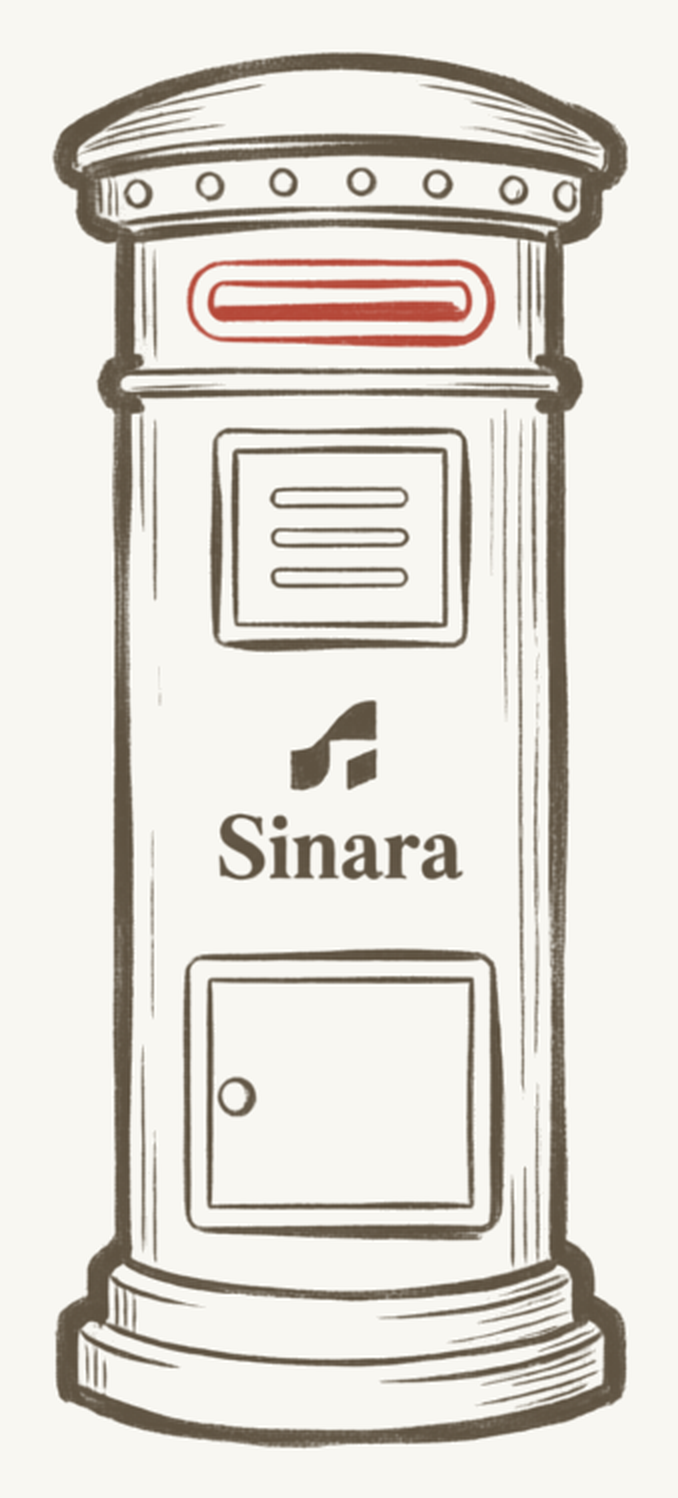
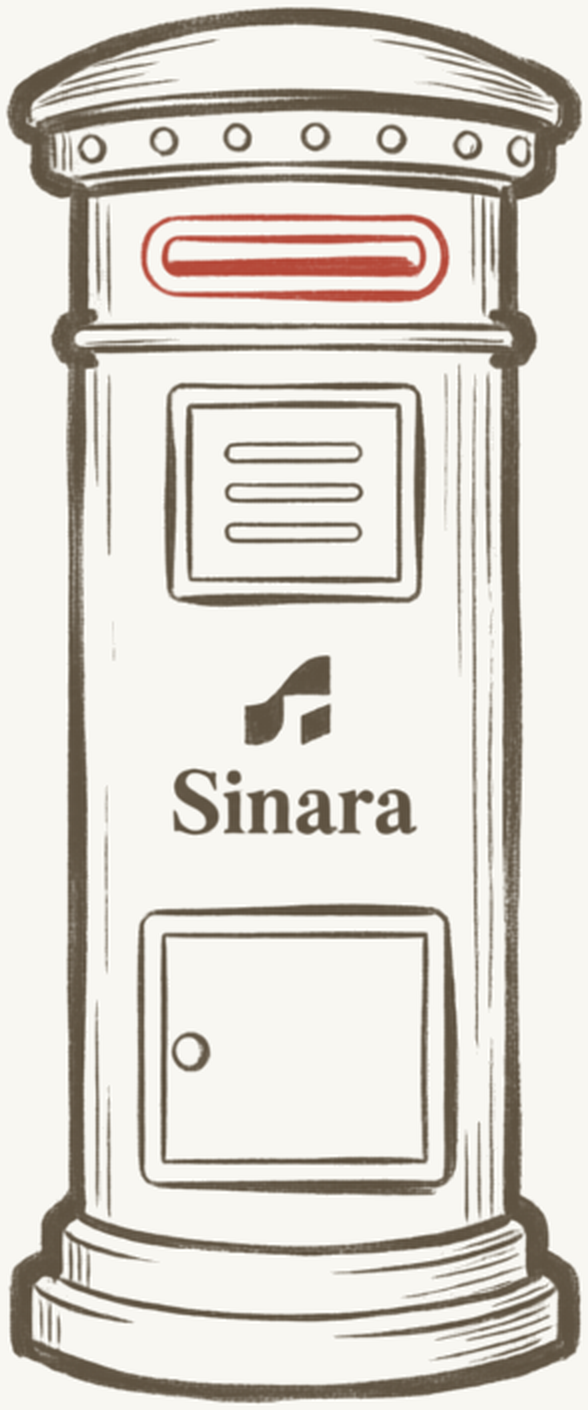
5.2 邮筒页深度适配：尺寸锚 iOS 比例按机型/形态分档（PostBoxMetrics 单一来源），裁邮筒 PNG 奶油边，窗口尺寸发布，状态行 caption 12fp，625 单测全绿+真机像素验收

diff --git a/PROGRESS.md b/PROGRESS.md
@@ -36,7 +36,7 @@
 | 4.3 账户页 | ✅ | Gavin（agent） | 2026-10-24 | **完成（真机验收主体通过；换绑整段跳过、注销提交后置——均用户拍板）**。对应 iOS `SettingsAccountView.swift`/`ChangePhoneView.swift`/`DeleteAccountView.swift`。**词条**：HAND_STRINGS +8 七语言（base 870 条八语言验证过）。**models/Api.ets 扩展**：ChangePhoneResponse/DeleteAccountResponse（只建模 ok，appleRevoked 不拒收不建模）/parseOkResponse + raw/parser。**AuthService 四方法**（15s 超时+bearer）：bindPhone/changePhone/updateDisplayName/deleteAccount。**LoginView bindPhone 模式**：onReady param==='bindPhone' 分派 submitCode→bindPhone（switchedAccount→establish 新 token+s_221b549139；else→updateUser+s_cecceb5a0a；token 守卫 s_0e37efff8d；envelope 透传 s_b94e9a68cd）。**SettingsTabView**：已登录卡（34 图标+昵称优先+脱敏手机号副行）/🔴未绑红色警告留一级卡（R-ACCOUNT-03，U02 华为版文案）/未登录「登录 / 注册」入口卡；**定格居中小标题「设置」**（不随滚动，内容从下穿过）。**SettingsAccountView 新建**（路由 `Account`）：昵称行（内联弹窗 PATCH /me ≤64 空清空，成功就地 UserDTO 拷贝不跑 GET /me）+手机号行（已绑→ChangePhone/未绑→Login bindPhone+红 footer）+退出登录（官方 AlertDialog 确认→clear）+注销账号红色最底+footer；tick watch 登录态空自动 pop。**ChangePhoneView 新建**（路由 `ChangePhone`）：两步流旧码本地暂存不提前消费→新号+新码一次 changePhone；快照防塌。**DeleteAccountView 新建**（路由 `DeleteAccount`）：三步——说明（**官方 List/ListItem 分组卡+官方 divider**，正文 labelFont 一档小；「不会被删除」八语言补「和你的华为云空间」铺云同步文案）→验证（inlineError 写页 R-ACCOUNT-07，按钮两态）→**官方 AlertDialog 二次确认**→deleteAccount→clear+tick+navPathStack.clear() 回根（无 popToRoot，实测编译报错）。**UI 官方组件化改造（用户逐轮指令，2026-10-24）**：① 设置定格标题；② 退出/注销确认弹窗换官方 `UIContext.showAlertDialog`——**按钮纯官方默认样式**（不手涂 fontColor/backgroundColor，系统随明暗自适应；DialogButtonStyle 无红色危险档不硬造）；③ 注销按钮两态逐主题（可用=destructive 底白字/禁用=surface 底 textTertiary 字，弃透明度降级）；④ 三页 topBar 返回键边距 6→16。**🔴 本卡最深坑：Scroll 设高度限制（layoutWeight）后内容小于视口默认垂直居中**（官方 FAQ faqs-arkui-725「如何解决Scroll组件设置高度限制后无法顶部对齐」）——设置/账户页「内容在屏幕中间」三轮排查（Stack+margin 居中误诊两轮），最终 `hdc snapshot_display + uitest dumpLayout` 实测坐标（昵称行 262vp vs 预期 101vp）+官方文档实锤，四页 Scroll 统一加 `.align(Alignment.Top)` 修复；BookDetail 从无症状因 `alignContent: Alignment.Bottom` 天然规避。**新规则 R-THEME-10**：官方/系统组件用纯官方样式（系统自适应即逐主题可读），页内自绘按钮才逐主题配色。**单测** +6 → **590 全绿**（parseChangePhone/parseDeleteAccount/parseOkResponse 坏体拒收、changePhoneRefreshesSnapshotKeepsToken、bindPhoneSwitchedAccountMustEstablishNewToken、deleteAccountClearsSessionButNotOtherStores）。**真机验收（Mate X6）**：真短信登录 ✓（296862）、账户卡已登录态+进账户页 ✓、昵称三连（设置/清空/复原+账户卡同步）✓、退出登录（取消+确认+账户卡回登录/注册+日记基线还在）✓、再登录 ✓、注销说明页（官方 List 分组+标题下移+官方红胶囊 ButtonRole.ERROR 继续）+验证页+发码 ✓、四页内容贴顶 ✓。**后置**：注销提交未验（60s 验证码窗口紧，方案待议）、换绑跳过（无第二收码号）、同号重注册（注销后才有意义）、401 真机路径未测；华为绑定行/华为按钮留 4.4（Q1 后端 /auth/huawei 未实现） |
 | 4.4 华为账号 | 🟡 | Gavin（agent） | 2026-10-25 | **U02 三卡代码全部完成（登录按钮/绑定行/注销验证）；单测 593 全绿 + build 零 ERROR + 装机 A 端冒烟 PASS；端到端联调等后端 AGC 密钥（现恒 503 huawei_disabled，属预期分支）**。**纯逻辑** `services/auth/HuaweiAuthLogic.ets`：HuaweiIdProof{idToken, authorizationCode}；取消 1001502012/未登录 1001502001 静默码表 isSilentKitError；proofFor（登录口径：idToken 必须、code 可缺归一 ''）/deleteProofFor（注销口径：两个都必须）；**kit 壳** `services/auth/HuaweiIdAuth.ets`：HuaweiIdAuthError{code} + authorize(context)=createLoginWithHuaweiIDRequest(forceLogin=true)→AuthenticationController.executeRequest→LoginWithHuaweiIDResponse 取 credential（AuthenticationController 构造传 common.Context，视图用 getUIContext().getHostContext() 判空）。**module.json5**：metadata client_id=6917619854007528919（=AGC APP ID=OAuth 2.0客户端ID；**2026-10-24 修正**——原 2067731667488866304 是 agconnect 旧版 client.client_id，属 1001500001 隐患；**公钥指纹核实免配**：官方《配置签名和指纹》compatibleSdkVersion≥20 调试阶段豁免，本项目 26 满足，用户 AGC 里的 0A:4E:B0:D8… 系旧自动签名证书残留无需处理）。**AuthService 三方法**（15s 超时）：loginWithHuawei→POST /auth/huawei、bindHuawei(idToken,token)→POST /me/bindings/huawei（响应只有 {ok:true} 不带 user——绑定后 fetchMe 刷快照，刷新失败仅 hilog.warn 不打扰）、deleteAccountWithHuawei(双凭证,token)→POST /me/delete。**U02-1 登录按钮**（LoginView）：aboutToAppear 注册 onClickLoginWithHuaweiIDButton；onHuaweiCredential 三分支（静默/无凭证/授权失败）+ 503 huawei_disabled 专判→s_c3758b0795「暂未开放用手机号登录」（envelope.code 精确匹配）；官方 LoginWithHuaweiIDButton（Style.BUTTON_RED/borderRadius 24/LoginType.ID/supportDarkMode，height 48 全宽）只在 mode===0 && step===0 显示；**不做「一键登录」**（U02 明确），已绑华为→授权后免验证码直登已覆盖。**U02-2 绑定行**（SettingsAccountView）：行序 昵称→手机号→华为；未绑=「绑定华为账号」+chevron+小字（点击走 HuaweiIdAuth.authorize 请求式 API，forceLogin 同授权界面）；已绑=「已绑定」不可点（v1 不解绑）；成功 toast+tick；presentHuaweiError 分流（HuaweiIdAuthError 静默/授权失败，HttpError 走 presentAuthError 409 透传）；refreshFromSession 补 huaweiBound（bindings 含 'huawei'）。**U02-3 注销验证**（DeleteAccountView）：hasPhone/hasHuawei 双 @State，onReady 两都没绑才 pop；verifySection 重构=phoneVerifyPart + 「或者用华为账号验证」（有手机）/「用你绑定的华为账号验证」（纯华为主标题）+ 官方按钮；onHuaweiCredential（deleteProofFor 双全）→AlertDialog 确认（取消丢授权码）→deleteAccountWithHuawei→clear+tick+toast+navPathStack.clear()；finally 恒置 huaweiProof=null（授权码不缓存）。**文案**：HAND_STRINGS +9 七语言（s_c57df07ccd 华为账号/s_86abec87ab 绑定华为账号/s_614f6c3b3d 绑定小字/s_a23663f119 授权失败/s_2b42a64cab 未获取到凭证/s_c3758b0795 暂未开放/s_573a605055 或者用华为验证/s_76923ad872 用绑定华为验证/s_35744f9bac 绑定成功 toast），外语统一 HUAWEI ID；**修复 s_10a55ee848 真源滞后**（HAND_STRINGS 是 string.json 强制真源，重跑 convert 会把 4.3 的华为云空间版文案冲掉——已同步现值防回归）。**测试**：+3 例（huaweiSilentKitErrorCodeClassification/proofForLoginRequiresIdTokenOnly/deleteProofRequiresIdTokenAndAuthorizationCode）→ **593 全绿**（hvigor test 真执行）；arkts_check 7 文件过；build 零 ERROR（修一处：presentResourceToast 只收 2 参，多余的 4000ms 删除）；check_localization 过绿。**装机**：Mate X6 安装启动冒烟 PASS。**09 文档**：Q1/Q17 结论更新（后端已部署三端点、客户端已接、差 AGC 密钥+SHA256 指纹）。**遗留**：端到端真机联调（后端 AGC 密钥 + AGC SHA256 指纹 12 #1 配齐后：点按钮走授权→现预期 503 文案；配齐后全链路）；「一键登录」（LoginType.QUICK_LOGIN one-tap）口子待研究（用户追加，现有 LoginType.ID 已免验证码登录）；git 提交待用户指示。**2026-10-25 真机联调日（AGC 密钥已配齐）**：① U02-1 登录闭环全通——Mate X6 点官方按钮→静默再授权→/auth/huawei 返 AuthResponse，后端解析 idToken 出昵称「你好」，Q1 结案；② **华为行翻转之谜破案修复**：冷启后设置页华为行恒回「绑定」——根因 `UserSession.establish` 用 `JSON.stringify(UserDTO)` 落盘（bindings 变 `["huawei"]` 字符串数组），恢复 `userFromRaw` 只认线格式 `[{provider}]` 恒解析为空；修复 `UserRaw.bindings?: (BindingRaw | string)[]` 读侧容错（写侧不动，自愈已落盘数据），+1 回归单测 sessionRestoreKeepsBindingsAcrossRestart → **594 全绿**，真机冷启自愈验证 ✓；③ **authorize instanceof 恒 false 修复**：`response instanceof authentication.LoginWithHuaweiIDResponse` 对 native 构造响应恒 false（hilog 实锤 `huawei authorize failed: 0 no huawei id credential`），按官方范例改 `executeRequest(...) as LoginWithHuaweiIDResponse` + dataPresent 诊断日志；④ U02-3 注销 E2E 客户端链路全通（说明→华为静默验证→AlertDialog→提交），但服务端 /me/delete 华为分支 **500 复现 2/2**（Q17 🔴，需尺素查 FC 日志；客户端已加 kind/status/body 诊断日志）；⑤ 顺带复测 4.3 补绑手机号：发码 ✓、6 位自动提交 ✓，但 /me/bindings/phone **500**（Q38 🔴——新码过校验被消费后绑定步崩，客户端请求体核对无误，已加对称诊断日志）；⑥ QUICK_LOGIN 调研完成（Q37 ⚪：v1 不做 v1.1 候选）。**新遗留**：U02-2 绑定行 E2E 需第二手机号 SMS 建未绑号；Q17/Q38 服务端修复后收尾注销+补绑 E2E；git 提交推送（用户已指示）。**2026-10-27 收尾全通（后端 Higgs 修复 Q17/Q38 已部署，4.4 🟢 结卡）**：① U02-1 登录 E2E 复验 ✓——华为账号静默授权→登录成功，账户页昵称「你好」+华为已绑+手机号未绑（红警告 R-ACCOUNT-03）；② **Q38 ✓**——绑定手机号 173\*\*\*\*8851：真实阿里云短信到码 221716 → POST /me/bindings/phone 成功，返回 switchedAccount 合并到既有手机号账户（昵称转「爱砍甘蔗的盖文」，华为行仍已绑），账户页手机号行翻已绑、警告消失；③ **Q17 ✓**——注销三步流：说明→华为验证（静默授权取双凭证）→AlertDialog 确认→POST /me/delete 华为分支成功→账号删除回未登录设置页（登录/注册卡），本地数据无恙；④ 顺手验证改昵称弹窗可开（PATCH /me 4.3 已验不重测）。**4.4 三卡（登录/绑定/注销）全闭环** |
 | 5.1 信箱读信 | ✅ | Gavin（agent） | 2026-10-27 | **完成（597 单测全绿 + build 零 ERROR + 真机验收全过，Mate X6）**。对应 iOS `LetterboxView.swift`/`LetterDetailView.swift`/`LetterDelivery.swift`。**① 数据层** `data/LetterRepository.ets`：`listLetters`（generated_at 倒序全量；「已到达/在路上」过滤与到达时刻排序由调用方用 LetterDelivery 内存做——两端判定逐字一致，05 §6.1）/`findLetter`/`saveLetter`（upsert：update 命中即返否则 insert；调试插信与标已读共用）/`deleteAllLetters`（仅调试页清场，产品无删信入口 R-BOX-09）/导出 `letterToValues` 纯函数（可空列 undefined→null）。**② 信箱** `views/postbox/LetterboxView.ets`（路由 `Letterbox`）：只显示已到信（R-BOX-01）；`nowMs` 每 5 秒推进（R-BOX-02 页面开着到点的信自己冒出来）；行=首字圆徽（火漆信 5.7 换 SealedEnvelope 先占位）+「来自%s」+到达日+预览+未读点（Circle opacity 占位不跳动，iOS 同款）；火漆未拆不露预览只显「火漆封着，还没拆」（R-BOX-03）；空态「信箱还是空的」；底部「有回信正在路上」（仅在有在途信且非空态时）；`onShown` 全量重查（读信返回即刷新）。**③ 读信** `views/postbox/LetterDetailView.ets`（路由 `LetterDetail`，param=信 id）：抬头「致%s」/「致」（R-BOX-07，无昵称快照退光秃秃「致」）；打开普通信即标已读落库（R-BOX-04；已读只记本地不调服务端 R-BOX-10）；火漆信展示正文但不标已读（拆信才算，5.7 接）；信末会员小字行占位（R-BOX-08「想让笔友每篇都回？了解尺素会员」，入口 6.x 接）。**④ 邮筒壳** `views/postbox/PostBoxTabView.ets`：tab2 占位壳（tab 内 Navigation + 右上角「信箱」入口；5.2 建真邮筒页时保留 Navigation 与入口）。**⑤ 调试** `pages/LetterDebug.ets`：五规格插信（已到未读 5min 前/即将到达 40s/在路上 3h/已读昨天/火漆未拆 10min 前）+ ClearAllLetters；HomeView 调试区加按钮（**拆独立一行**——与 Theme/Lang/Location 同行会溢出屏幕，Row 不换行）。**测试**：`LetterRepository.test.ets` letterToValues 纯映射 3 例 → **597 全绿**。**真机验收（Mate X6，插五封实测）**：已到 3 行 +「有回信正在路上」✓；40s 信页面开着自动出现（R-BOX-02）✓；红点像素级验证（snapshot_display 采样圆心：未读=accent 亮/已读=透明灭）✓；打开未读信返回红点实时熄灭（R-BOX-04）✓；「致你好」抬头+正文+会员行 ✓；重启后已读态保持（落库验证）✓；火漆行不露预览 ✓。**修编译/运行五记**：① `Rectangle` 是 SwiftUI 组件（鸿蒙 `Divider().strokeWidth().color()`）；② `lineSpacing(number)` 要 `LengthMetrics.vp()`（三犯）；③ `fontSize` 不能挂 Row（逐 Text 设）；④ **ForEach key 只用 letter.id → onShown 重查后行不重渲染、红点停旧态**（Row 内容全绑 letter 参数对象，同 key 复用旧组件）——key 改 `` `${id}:${status}` ``；⑤ 调试按钮一行塞五枚溢出屏幕（Theme/Lang/Location 可见、后两枚 x>1080 不可见）拆两行。**返工（2026-10-27 用户反馈，两处）**：**A. 未读点改 destructive**（`.fill(accent)`→`.fill(destructive)` 0xFFE8453A 三主题同值——accent 在 Kent 是墨色会看成黑点；iOS letterboxButton 红点同为 destructive），火漆未读行像素实测红 ≈(197-224,67-104,40-103)✓、已读行 opacity 0 占位不跳动。**B. 信箱入口重做：官方 Navigation 标题栏右上角、左上不出「邮筒」二字**（iOS 该页无标题文字，PostBoxView.swift:74-84 inline 无 title；入口等价 toolbar ToolbarItem(.topBarTrailing)）。**menus/title 自定义内容六轮真机排查**（dump 全节点比对）：menus Array 形态 API10+ 不显示菜单文本（官方文档明文）✗；menus CustomBuilder 箭头式/调用式均无节点 ✗；`.title(this.builder())` 调用式 TitleBar 空子节点 ✗；NavigationCustomTitle 字段捕获箭头闭包空壳 ✗——**根因：@Builder 一旦被箭头闭包/字段捕获就丢掉作用域装置，静默不渲染或崩 observeComponentCreation2**（EntryDetailView:443 注释、faqs-arkui-906 同因）；**正解 = 调用点内联 this 引用 `.title(this.titleBar)`**（ComposeView:435 同款，项目内已验证形态）。真机：信箱 [905,175][1080,293] 右上角 ✓ 点击进信箱 ✓ 系统返回 ✓ 左上无字 ✓；597 全绿 + build 零 ERROR。**遗留偏差（5.2 补）**：入口暂无 tray 图标与按钮级未读红点 overlay（iOS letterboxButton 有；需 PostBoxTabView 接 LetterRepository 查 hasUnread）。**全流程复验（2026-10-27 返工后，Mate X6 真机）12 项全过**：清场→插五规格信全链路——①邮筒页左上无标题/右上信箱入口（[905,175]）②入口点进信箱+系统返回 ③R-BOX-01 只显已到达+在路上仅 footer+空态「信箱还是空的」（清场实测）④R-BOX-02 信箱页保持开着跨过到达时刻：dump1 4行→dump2 5行自己冒出、新行红点亮（页面未关、5s 推进）⑤R-BOX-03 火漆行「火漆封着，还没拆」不露预览 ⑥R-BOX-04 打开即读、返回红点实时熄灭（row1 灭/row2+火漆仍红）⑦R-BOX-07「致你好」抬头 ⑧R-BOX-08 会员行 ⑨R-BOX-09 无删信入口 ⑩R-BOX-10 重启后已读态保持（force-stop 复起 row1 无点、未读仍红）⑪红点全部 destructive 红（像素 (223-235,67-74,47-56)≈0xFFE8453A，已读行 opacity 0 占位不跳动）⑫到达时刻倒序（新到信排顶） |
-| 5.2 邮筒页 | ✅ | Gavin（agent） | 2026-10-27 | **完成（617 单测全绿 + build 零 ERROR + 真机验收全过，Mate X6）**。对应 iOS `PostBoxView.swift`/`PostBoxPage.swift`/`Posting/OutgoingPile.swift`。**① 纯逻辑** `models/PostBoxLogic.ets`：`PostBoxSituationKind` 八档（NotLoggedIn/NothingNew/Ready/JustPosted/InTransit/Blocked/Returned/NoEntries——R-POST-06）+ `judgePostBoxState`（候选=candidateEntries：上次寄出之后新写的日记；在途>0→InTransit；节奏拦→Blocked）+ `OutgoingItem`/`outgoingItemsOf`（行模型：日期+标题，无题→「无题」）+ `hasUnreadLetter`（信箱红点）+ `lastSentAtMs`；单测 `PostBoxLogic.test.ets` 20 例（八档判定/候选口径/行模型/红点/时间边界）。**② 页面取色** `services/MailboxPageColor.ets`：`mailboxPageColor(themeId, mailboxImage)` 插画左上 1 像素取整页底色（getMediaContent(resId)→createImageSource→createPixelMap→readPixels(0,0) 1px BGRA；按 themeId 缓存；`getMediaContent(Resource)` API20 起废弃用 id 重载），三主题实测 bamboo #F8F7F2/leather #1C1411/kent #FFFFFF。**③ 一叠纸** `views/postbox/OutgoingPile.ets`：逐字对齐 iOS 尺寸（header 34/row 40/visibleRows 3.5/总高 OUTGOING_PILE_HEIGHT_VP 188/渐隐 24）；header「这次寄出的日记」+「N / M」右对齐（fontStyle Italic——**`.italic()` 属性不存在**，编译实证）；行=CheckMark（Path 'M0 5.55 L4.68 11 Q7.15 5.5 13 0' stroke liner 1.8）+shortDate+标题；勾/不勾 opacity 1/0.38；Scroll+底部 24vp 渐隐；`interactive` 开关（Blocked 档半透明 0.5 不可点）；纸色/墨色走 `LetterPalette.of(themeId)`（bamboo/leather/kent 三套）。**④ 邮筒页** `views/postbox/PostBoxTabView.ets` 重写：插画（layoutWeight 1）+状态行（minHeight 40）+底部固定 188（Ready 出可交互叠纸；Blocked 且有候选出半透明叠纸）；状态行文案 `statusLabel()`/`rhythmLabel()` 集中映射（JustPosted 带候选与否双文案；Blocked 走 rhythm.reason daily_cap/monthly_cap/welcome_pending；不带计量词 R-POST-12）；标题栏「信箱」入口+未读红点（Circle destructive 8vp，`hasUnreadLetter`）；`STORAGE_KEY_POSTBOX_VISIBLE_TICK` 导出，MainTabsView onChange index===2 打点 @Watch 重查（tab 每次进入刷新）；nowMs 5 秒推进。**⑤ 节奏接口**：`models/Api.ets` `RhythmResponse`+`parseRhythmResponse`（canRequestNow 必填 bool，tier/reason/nextLetterAt 可选，null→''）；`services/auth/AuthService.ets` `fetchRhythm(token)` GET /me/rhythm（TIMEOUT_RHYTHM_S 15s）；`data/LetterRepository.ets` `entryIdsForLetters`（RdbPredicates in）。**测试**：**617 全绿**（597+20，Local Test hvigor 真执行；`entry/.test` 删缓存+clean 后跑出——onDeviceTest 跑的是 ohosTest 不是单测套件，缓存不重编会假报 597）。**真机验收（Mate X6）**：NotLoggedIn「登录之后，青鸟才能给你回信」+下半区空 ✓；华为账号静默登录后 Ready 档（写一篇日记→状态行「点邮筒，把勾上的日记寄给青鸟」+叠纸「这次寄出的日记 1/1」+行勾选）✓；点行取消勾→「0 / 1」+状态行「一篇都没勾，信封里是空的」✓；LetterDebug 插已到未读信→NothingNew 档「上次寄信之后还没写新日记」+信箱右上红点像素采样 #DC3D2A（destructive）✓；ClearAllLetters→红点消失+候选恢复 2/2 两行渲染 ✓；三主题整页底色逐一像素采样（素笺 #F8F7F2/皮革 #1C1411/肯特 #FFFFFF）✓。**Blocked 档（服务端拦）真机不可构造**——测试账号 /me/rhythm 恒 canRequestNow=true，半透明叠纸与 rhythm.reason 文案走单测覆盖，5.3 寄信队列接通后随真实寄信历史复测。**修编译两记**：① `.italic()` 不存在→`.fontStyle(FontStyle.Italic)`；② `getMediaContent(Resource)` API20 废弃→`getMediaContent(resId)` 传 `mailboxImage.id`。**真机操作坑两记**：① 悬浮胶囊 TabBar（HdsTabs barOverlap）触摸热区盖住记录页调试行下半——Seed15/LetterDebug 下半按钮点不到（点击落进胶囊切错 tab），要点按钮**上半**（y-40 左右）；② 重装（hdc install -r）清应用数据→重走首启+重登录。**返工（2026-10-27 用户反馈四问题+整页按 iOS 版式重排，真机全过）**：反馈——①滑动叠纸时邮筒忽大忽小；②胶囊 tab bar 遮「这次寄出的日记」；③勾选样式不对；④信箱按钮换官方组件；另「邮筒太靠上、信纸紧贴 tabbar 上一点、整体参考 iOS」。**真机排雷四记（dump 全量+像素扫描实证，后续卡片通用）**：(a) `.overlay()` 挂带子节点的复杂 @Builder→容器渲染但子闭包全不渲染（入口 Row 塌 8px、Symbol/Text/Circle 全消失；单节点 overlay 才稳）；正解=行内调用 `this.letterboxEntry()`（@Builder 被字段/箭头捕获即丢作用域——同 5.1 menus 六轮排查根因）；(b) `width('100%')` 节点的 `.margin()` 整组被忽略（叠纸 wrapper margin l/r 28 实测纸全宽 0..1078；wrap-content 节点 margin 正常，已验收页作证）→ 横向内缩改 `.padding({left:28,right:28})`；(c) `Image.padding({top})` 不参与 objectFit 绘制（l/r 参与固有宽计算、top 被画布盖过）→ 顶距走外层容器；(d) **NavBar 内容列 padding(top) 从窗口顶 y=0 量起**（真机标定 top:52→y=162 而非 284；px/vp=3.1154 三点验证）。**修复**：整页重排为 `Column({space:14}){Stack(TopEnd){Image(Contain,100%,100%).layoutWeight(1)+行内入口}.width('100%').layoutWeight(1)；状态行；叠纸 wrapper height(188).padding({l:28,r:28})}`，整列 `.padding({top:91.3, bottom: safeAreaBottomVp+90})`（91.3=窗口顶量起：安全区 122px+52vp，iOS 44 导航栏+8 契约；邮筒 dome 顶 319px=绘制顶 285+PNG 奶油带 51×scale ✓）。①四向滑动（叠纸弹滚+tab 切换往返）Image bounds 恒 [0,285][1080,1272] ✓；②纸 [87,1498][993,2061]（28vp 内缩 iOS 同款）底 2073<胶囊顶 2178 ✓，一页 3 行可见 ✓；③勾 Path 改两条 Line（P1(0,5.55)→P2(4.68,11)→P3(13,0) 圆头 1.8 stroke liner——**Path 真机按物理像素渲染勾缩在角上，Line 端点 vp 跨设备一致**），竹主题朱红像素实证 ✓；④入口=官方 SymbolGlyph($r('sys.symbol.inbox'))+Text 信箱+Circle 红点 8vp destructive（**按钮级红点补 5.1 遗留偏差**），红点随插信/清场亮灭（像素 (223,72,61)≈destructive ✓）、点开 Letterbox ✓ 返回 ✓。**mailbox_bamboo.png 无 alpha**（RGB、角=pageColor #F8F7F2——取色原理成立）。真机复验（Mate X6，dump /tmp/fl..fy 存档）：插已到未读信→NothingNew+红点亮（debug 信 generatedAt 在两篇日记后→候选 0，判定口径正确）；ClearAllLetters→恢复 Ready「点邮筒，把勾上的日记寄给青鸟」/「2 / 2」无红点；无纯逻辑改动，**617 全绿复跑**+build 零 ERROR。**hvigorw 不在系统 PATH**（local-test 脚本需先 export /Applications/DevEco-Studio.app/Contents/tools/hvigor/bin 等三个 bin）。 |
+| 5.2 邮筒页 | ✅ | Gavin（agent） | 2026-10-27 | **完成（617 单测全绿 + build 零 ERROR + 真机验收全过，Mate X6）**。对应 iOS `PostBoxView.swift`/`PostBoxPage.swift`/`Posting/OutgoingPile.swift`。**① 纯逻辑** `models/PostBoxLogic.ets`：`PostBoxSituationKind` 八档（NotLoggedIn/NothingNew/Ready/JustPosted/InTransit/Blocked/Returned/NoEntries——R-POST-06）+ `judgePostBoxState`（候选=candidateEntries：上次寄出之后新写的日记；在途>0→InTransit；节奏拦→Blocked）+ `OutgoingItem`/`outgoingItemsOf`（行模型：日期+标题，无题→「无题」）+ `hasUnreadLetter`（信箱红点）+ `lastSentAtMs`；单测 `PostBoxLogic.test.ets` 20 例（八档判定/候选口径/行模型/红点/时间边界）。**② 页面取色** `services/MailboxPageColor.ets`：`mailboxPageColor(themeId, mailboxImage)` 插画左上 1 像素取整页底色（getMediaContent(resId)→createImageSource→createPixelMap→readPixels(0,0) 1px BGRA；按 themeId 缓存；`getMediaContent(Resource)` API20 起废弃用 id 重载），三主题实测 bamboo #F8F7F2/leather #1C1411/kent #FFFFFF。**③ 一叠纸** `views/postbox/OutgoingPile.ets`：逐字对齐 iOS 尺寸（header 34/row 40/visibleRows 3.5/总高 OUTGOING_PILE_HEIGHT_VP 188/渐隐 24）；header「这次寄出的日记」+「N / M」右对齐（fontStyle Italic——**`.italic()` 属性不存在**，编译实证）；行=CheckMark（Path 'M0 5.55 L4.68 11 Q7.15 5.5 13 0' stroke liner 1.8）+shortDate+标题；勾/不勾 opacity 1/0.38；Scroll+底部 24vp 渐隐；`interactive` 开关（Blocked 档半透明 0.5 不可点）；纸色/墨色走 `LetterPalette.of(themeId)`（bamboo/leather/kent 三套）。**④ 邮筒页** `views/postbox/PostBoxTabView.ets` 重写：插画（layoutWeight 1）+状态行（minHeight 40）+底部固定 188（Ready 出可交互叠纸；Blocked 且有候选出半透明叠纸）；状态行文案 `statusLabel()`/`rhythmLabel()` 集中映射（JustPosted 带候选与否双文案；Blocked 走 rhythm.reason daily_cap/monthly_cap/welcome_pending；不带计量词 R-POST-12）；标题栏「信箱」入口+未读红点（Circle destructive 8vp，`hasUnreadLetter`）；`STORAGE_KEY_POSTBOX_VISIBLE_TICK` 导出，MainTabsView onChange index===2 打点 @Watch 重查（tab 每次进入刷新）；nowMs 5 秒推进。**⑤ 节奏接口**：`models/Api.ets` `RhythmResponse`+`parseRhythmResponse`（canRequestNow 必填 bool，tier/reason/nextLetterAt 可选，null→''）；`services/auth/AuthService.ets` `fetchRhythm(token)` GET /me/rhythm（TIMEOUT_RHYTHM_S 15s）；`data/LetterRepository.ets` `entryIdsForLetters`（RdbPredicates in）。**测试**：**617 全绿**（597+20，Local Test hvigor 真执行；`entry/.test` 删缓存+clean 后跑出——onDeviceTest 跑的是 ohosTest 不是单测套件，缓存不重编会假报 597）。**真机验收（Mate X6）**：NotLoggedIn「登录之后，青鸟才能给你回信」+下半区空 ✓；华为账号静默登录后 Ready 档（写一篇日记→状态行「点邮筒，把勾上的日记寄给青鸟」+叠纸「这次寄出的日记 1/1」+行勾选）✓；点行取消勾→「0 / 1」+状态行「一篇都没勾，信封里是空的」✓；LetterDebug 插已到未读信→NothingNew 档「上次寄信之后还没写新日记」+信箱右上红点像素采样 #DC3D2A（destructive）✓；ClearAllLetters→红点消失+候选恢复 2/2 两行渲染 ✓；三主题整页底色逐一像素采样（素笺 #F8F7F2/皮革 #1C1411/肯特 #FFFFFF）✓。**Blocked 档（服务端拦）真机不可构造**——测试账号 /me/rhythm 恒 canRequestNow=true，半透明叠纸与 rhythm.reason 文案走单测覆盖，5.3 寄信队列接通后随真实寄信历史复测。**修编译两记**：① `.italic()` 不存在→`.fontStyle(FontStyle.Italic)`；② `getMediaContent(Resource)` API20 废弃→`getMediaContent(resId)` 传 `mailboxImage.id`。**真机操作坑两记**：① 悬浮胶囊 TabBar（HdsTabs barOverlap）触摸热区盖住记录页调试行下半——Seed15/LetterDebug 下半按钮点不到（点击落进胶囊切错 tab），要点按钮**上半**（y-40 左右）；② 重装（hdc install -r）清应用数据→重走首启+重登录。**返工（2026-10-27 用户反馈四问题+整页按 iOS 版式重排，真机全过）**：反馈——①滑动叠纸时邮筒忽大忽小；②胶囊 tab bar 遮「这次寄出的日记」；③勾选样式不对；④信箱按钮换官方组件；另「邮筒太靠上、信纸紧贴 tabbar 上一点、整体参考 iOS」。**真机排雷四记（dump 全量+像素扫描实证，后续卡片通用）**：(a) `.overlay()` 挂带子节点的复杂 @Builder→容器渲染但子闭包全不渲染（入口 Row 塌 8px、Symbol/Text/Circle 全消失；单节点 overlay 才稳）；正解=行内调用 `this.letterboxEntry()`（@Builder 被字段/箭头捕获即丢作用域——同 5.1 menus 六轮排查根因）；(b) `width('100%')` 节点的 `.margin()` 整组被忽略（叠纸 wrapper margin l/r 28 实测纸全宽 0..1078；wrap-content 节点 margin 正常，已验收页作证）→ 横向内缩改 `.padding({left:28,right:28})`；(c) `Image.padding({top})` 不参与 objectFit 绘制（l/r 参与固有宽计算、top 被画布盖过）→ 顶距走外层容器；(d) **NavBar 内容列 padding(top) 从窗口顶 y=0 量起**（真机标定 top:52→y=162 而非 284；px/vp=3.1154 三点验证）。**修复**：整页重排为 `Column({space:14}){Stack(TopEnd){Image(Contain,100%,100%).layoutWeight(1)+行内入口}.width('100%').layoutWeight(1)；状态行；叠纸 wrapper height(188).padding({l:28,r:28})}`，整列 `.padding({top:91.3, bottom: safeAreaBottomVp+90})`（91.3=窗口顶量起：安全区 122px+52vp，iOS 44 导航栏+8 契约；邮筒 dome 顶 319px=绘制顶 285+PNG 奶油带 51×scale ✓）。①四向滑动（叠纸弹滚+tab 切换往返）Image bounds 恒 [0,285][1080,1272] ✓；②纸 [87,1498][993,2061]（28vp 内缩 iOS 同款）底 2073<胶囊顶 2178 ✓，一页 3 行可见 ✓；③勾 Path 改两条 Line（P1(0,5.55)→P2(4.68,11)→P3(13,0) 圆头 1.8 stroke liner——**Path 真机按物理像素渲染勾缩在角上，Line 端点 vp 跨设备一致**），竹主题朱红像素实证 ✓；④入口=官方 SymbolGlyph($r('sys.symbol.inbox'))+Text 信箱+Circle 红点 8vp destructive（**按钮级红点补 5.1 遗留偏差**），红点随插信/清场亮灭（像素 (223,72,61)≈destructive ✓）、点开 Letterbox ✓ 返回 ✓。**mailbox_bamboo.png 无 alpha**（RGB、角=pageColor #F8F7F2——取色原理成立）。真机复验（Mate X6，dump /tmp/fl..fy 存档）：插已到未读信→NothingNew+红点亮（debug 信 generatedAt 在两篇日记后→候选 0，判定口径正确）；ClearAllLetters→恢复 Ready「点邮筒，把勾上的日记寄给青鸟」/「2 / 2」无红点；无纯逻辑改动，**617 全绿复跑**+build 零 ERROR。**hvigorw 不在系统 PATH**（local-test 脚本需先 export /Applications/DevEco-Studio.app/Contents/tools/hvigor/bin 等三个 bin）。**深度适配返工（2026-10-27 用户四点反馈：叠纸贴 Tab 栏、邮筒下移放大、状态行字大、按机型/形态适配）——完成（625 全绿 + build 零 ERROR + 真机像素验收全过，Mate X6 折叠态）**。**设计**：一切尺寸锚 iOS 比例（ ContentView 标准 TabView 不悬浮→胶囊预留是平台差异；叠纸 188/852=22% 窗高；邮筒墨迹 149×358pt=屏宽 37.9%）而非逐点照抄——新建纯逻辑 `views/postbox/PostBoxMetrics.ets`（单一来源：compute(windowH, safeTop, safeBottom)——pileHeight=clamp(0.22×窗高,132,188)（188 时逐字=iOS 34/40/188/24）、topOffset=safeTop+70（dome 移到信箱入口行下，紧凑档 8）、bottomOffset=safeBottom+102（紧凑 56）、statusMin 28（紧凑 26）、stage=max(0,余量)、spacing 14、contentMaxWidth 430）+ `PostBoxMetrics.test.ets` 8 例（iPhone 852 绝对锚/Mate X6 折叠 782.65 与展开锚/夹取边界/矮窗紧凑档/pile 恒等式/stage 花销恒等式，浮点容差）。**窗口尺寸发布** `ImmersiveChrome.ets`：+`STORAGE_KEY_WINDOW_WIDTH/HEIGHT_VP`（mainWindow.on('windowSizeChange')+getWindowProperties().windowRect÷display 密度；折叠密度变→avoidAreaChange/windowSizeChange 回调里重发）。**裁图**：三张 mailbox PNG 墨迹盒一致 (48,47)-(632,1453)，统一裁 (46,45)-(634,1455)→588×1410（留 1~3px 奶油垫保 mailboxPageColor 取色角像素），Contain 下墨迹直接从区顶开始（等效放大 +6.6%）。**参数化** `OutgoingPile.ets`：consts→@Prop（total/header/row/fade，默认=iOS 绝对值），删导出 OUTGOING_PILE_HEIGHT_VP（引用面仅本文件+PostBoxTabView，grep 确认）。**接线** `PostBoxTabView.ets`：@StorageProp 窗高（0 时兜底 782.65）→metrics()；整列 padding top/bottom=度量（排雷 d：NavBar 内容列 padding 从窗口顶 y=0 量起，度量已含 safeTop）；状态行 bodyFont 14→captionFont 12+minHeight 28；三段 constraintSize({maxWidth:430}) 居中（md/lg 缩进布局，不新增 wrapper 规避 NavBar padding 怪癖重测）；叠纸 wrapper height=度量。**真机像素验收（Mate X6 折叠，基准=设计值）**：dome 顶 344px/110.4vp（目标 109.2，原 319px 下移 8vp）✓；邮筒墨迹宽 400px/37.0%W（目标 37.9%，原 385px+裁边放大）✓；叠纸底→胶囊缝隙 41.1vp（原 30vp，「距离空一点」）✓；状态行墨迹高 39px=12fp（原 14fp）✓；叠纸高 540px/173.3vp（目标 172.2）✓；617→**625 全绿**。**横屏/矮窗**：iOS 同样放不下（stage 16pt），本卡只保紧凑档不崩；2in1/平板 430 限宽居中。**bamboo 墨迹扫描方法论**：浅色填充邮筒 diff>40 只见描边——量全宽用「行内墨迹跨度」（y∈[500,1300] 避开右上入口/状态行），量叠纸用无文字边缘列（纸色 (247,241,227) vs 底色 (248,247,242) diff 仅 22，阈值 15+蓝通道<238）。 |
 | 5.3 寄信队列 | ⬜ | | | |
 | 5.4 到达通知 | ⬜ | | | |
 | 5.5 语言识别 | ⬜ | | | |
